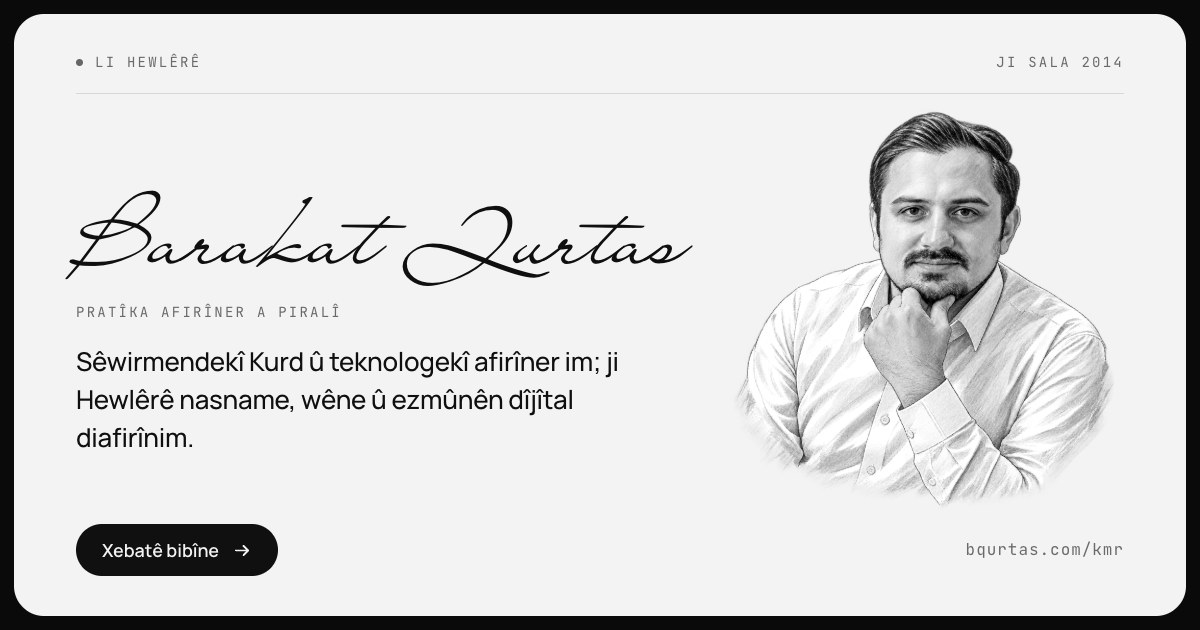
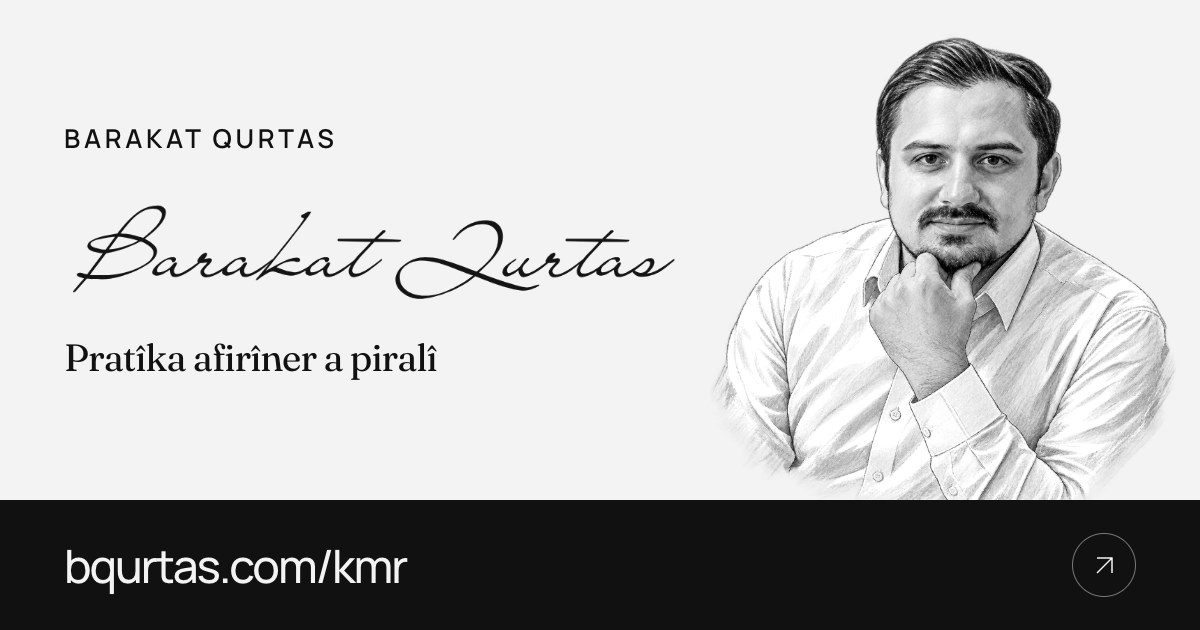
Redesign homepage link previews with handwritten identity covers

diff --git a/preview_site/index.html b/preview_site/index.html
@@ -72,7 +72,7 @@
   <meta property="og:site_name" content="Barakat Qurtas" />
   <meta property="og:title" content="Barakat Qurtas — Kurdish Designer &amp; Creative Technologist" />
   <meta property="og:description" content="Identity, editorial, photography, motion, content, AI-assisted production and web experiences — one multidisciplinary practice based in Hewlêr, Kurdistan." />
-  <meta property="og:image" content="https://bqurtas.com/assets/covers/en-home.jpg?v=4" />
+  <meta property="og:image" content="https://bqurtas.com/assets/covers/en-home.jpg?v=5" />
   <meta property="og:image:type" content="image/jpeg" />
   <meta property="og:image:width" content="1200" />
   <meta property="og:image:height" content="630" />
@@ -90,7 +90,7 @@
   <meta name="twitter:card" content="summary_large_image" />
   <meta name="twitter:title" content="Barakat Qurtas — Kurdish Designer &amp; Creative Technologist" />
   <meta name="twitter:description" content="A multidisciplinary creative practice in Hewlêr spanning identity, print, photography, motion, content, AI and the web." />
-  <meta name="twitter:image" content="https://bqurtas.com/assets/covers/en-home.jpg?v=4" />
+  <meta name="twitter:image" content="https://bqurtas.com/assets/covers/en-home.jpg?v=5" />
   <meta name="twitter:creator" content="@bqurtas" />
 
   <!-- Structured data: Person -->
@@ -2937,7 +2937,7 @@
              serving the worker script from its own HTTP cache too.
              Bump this with SW_VERSION in sw.js. */
           navigator.serviceWorker
-            .register('/sw.js?v=fb7fe636658f', { updateViaCache: 'none' })
+            .register('/sw.js?v=244c8195feb1', { updateViaCache: 'none' })
             .catch(function () {});
         }
       });

diff --git a/functions/[[route]].js b/functions/[[route]].js
@@ -627,7 +627,7 @@ export async function onRequest(context) {
     postJsonLd = '<script type="application/ld+json">' + JSON.stringify(ld).replace(/</g, '\\u003c') + '</script>';
   } else {
     meta = (OG[r.lang] && OG[r.lang][r.key]) || OG.en[r.key] || OG.en.home;
-    img  = SITE + '/assets/covers/' + r.lang + '-' + r.key + '.jpg?v=4';
+    img  = SITE + '/assets/covers/' + r.lang + '-' + r.key + '.jpg?v=' + (r.key === 'home' ? '5' : '4');
   }
 
   // A unique CSP nonce is meaningful only when the HTML response itself is not

diff --git a/preview_site/sw.js b/preview_site/sw.js
@@ -13,7 +13,7 @@
       instead of being pinned for the life of the installed worker.
    ========================================================= */
 
-const SW_VERSION = 'fb7fe636658f'; // generated from this worker and the app shell
+const SW_VERSION = '244c8195feb1'; // generated from this worker and the app shell
 const CACHE_NAME = `bqurtas-cache-${SW_VERSION}`;
 const DOC_FALLBACK = '/index.html';
 
